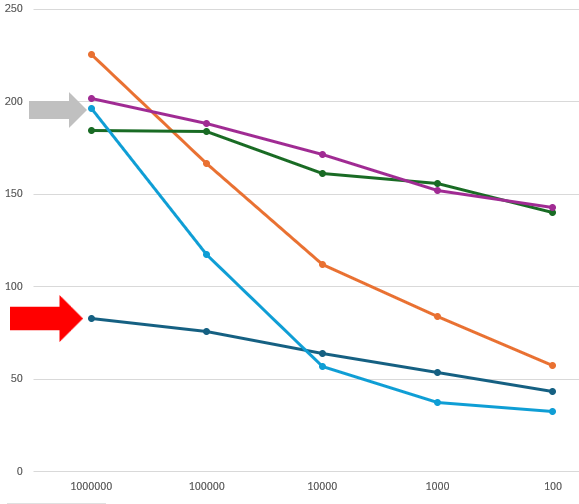
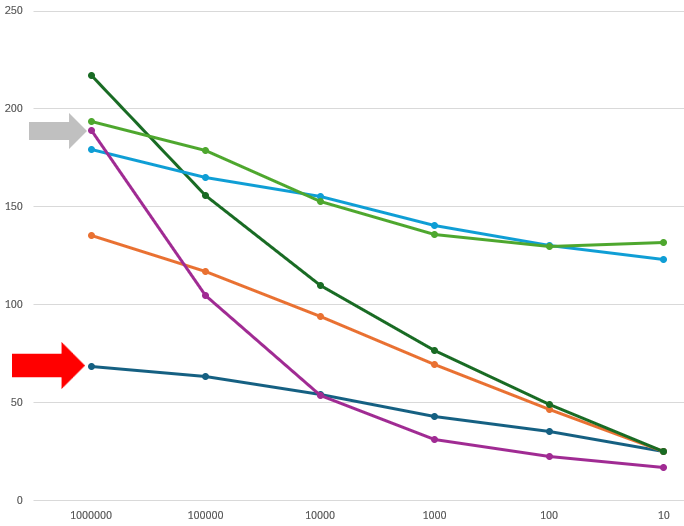
update quicksort-go

diff --git a/quicksort-go/quicksort-go.md b/quicksort-go/quicksort-go.md
@@ -76,29 +76,29 @@ To solve this, a done channel was created. When a segment was guaranteed to be i
 	}
 ```
 
+#### order optimisation
+
+I explored an optimisation around detecting when a segment being partitioned was is in sorted order. As the likelyhood of ordered partitions increased this seemed like an easy winner. It introduced a lot of complexity into partitioning, and mostly performed poorer than code that didn't look for ordered segments.
+
 #### partition goroutines
 
-Of the three goroutines in my asynchronous quicksort, the partition goroutine does the most work. So in `AsyncSort2`, we launch four partition goroutines.
+Of the three goroutines in our asynchronous quicksort, the partition goroutine does the most work. So in `AsyncSort2` and `AsyncSort2B`, we launch four partition goroutines.
 
-I was surprised by the result. Running four partition goroutines was always quicker than running just one partition goroutine. However, running four partition goroutines was not always quicker than the original iterative quicksort where there were no goroutines.
+I was surprised by the result. Running four partition goroutines on its own was not a winner. However, running four partition goroutines that included detecting if the segment was in order resulted in faster sorts than our iterative sort, `Sort`, in certain conditions.
 
-As described earlier, I ran tests where we sorted 1M ints with random values from 0-1000000, 0-100000,...,0-10. For 1M ints where the likelyhood of ordered segments was low (0-1000000), running four partition goroutines was significantly slower than the original iterative quicksort. At the other end of the scale where the likelyhood of ordered segments was high (0-10), running four partition goroutines was about 25% faster than the original iterative quicksort.
+As described earlier, I ran tests where we sorted 1M ints with random values from 0-1000000, 0-100000,...,0-10. For 1M ints where the likelyhood of ordered segments was low (0-1000000), running four partition goroutines with order optimisation was significantly slower than the original iterative quicksort. At the other end of the scale where the likelyhood of ordered segments was high (0-10), running four partition goroutines with order optimisation was about 25% faster than the original iterative quicksort.
 
-In the graph below, the grey arrow points to the sort time when running four partition goroutines. The red arrow points to the sort time when running the original iterative quicksort. Y-axis is the sort time in milliseconds. X-axis is the range of random int values in the sort - 0-1000000, 0-100000,...,0-10. We are sorting 1M random ints.
+In the graph below, the grey arrow points to the sort time when running four partition goroutines with order optimisation, `AsyncSort2`. The red arrow points to the sort time when running the original iterative quicksort, `Sort`. Y-axis is the sort time in milliseconds. X-axis is the range of random int values in the sort - 0-1000000, 0-100000,...,0-10. We are sorting 1M random ints.
 
 ![quicksort execution time graph](quicksort-execution-time-graph.png)
 
-Our original iterative sort is very linear and consistently fastest or close second-best. Running four partitions is significantly slower until our ints are in the range 0-10000. From there on it runs a bit faster than our iterative sort.
-
-#### order optimisation
-
-My final idea for optimisation was to detect when a segment being partitioned was in sorted order. As the likelyhood of ordered partitions increased this seemed like an easy winner. Not so. Aside from introducing a lot of complexity into partitioning, this always performed poorer than never detecting an ordered segment.
+`Sort` is very linear and consistently fastest or close second-best. Running `AsyncSort2` is significantly slower until our ints are in the range 0-10000. From there on it runs a bit faster than our iterative sort.
 
 ### Conclusion
 
-The simple synchronous iterative quicksort was the best or close second-best performer in all scenarios. It scales well. The code is simple and easy to maintain.
+The simple synchronous iterative quicksort, `Sort` was the best or close second-best performer in all scenarios. It scales well. The code is simple and easy to maintain.
 
-The asynchronous order optimised quicksort with up to four partition goroutines performed better as the likelyhood of ordered partitions increased. The code is more complicated. The buffered channel sizes need tuning to avoid deadlocks.
+The asynchronous order optimised quicksort with up to four partition goroutines, `AsyncSort2`, performed better as the likelyhood of ordered partitions increased. The code is more complicated. The buffered channel sizes need tuning to avoid deadlocks.
 
 For me, the use case for the asynchronous quicksort would be where, (1) the data sets are known to contain tightly constrained or high likelyhood of repeating values __and__, (2) performance is really, really important.
 
